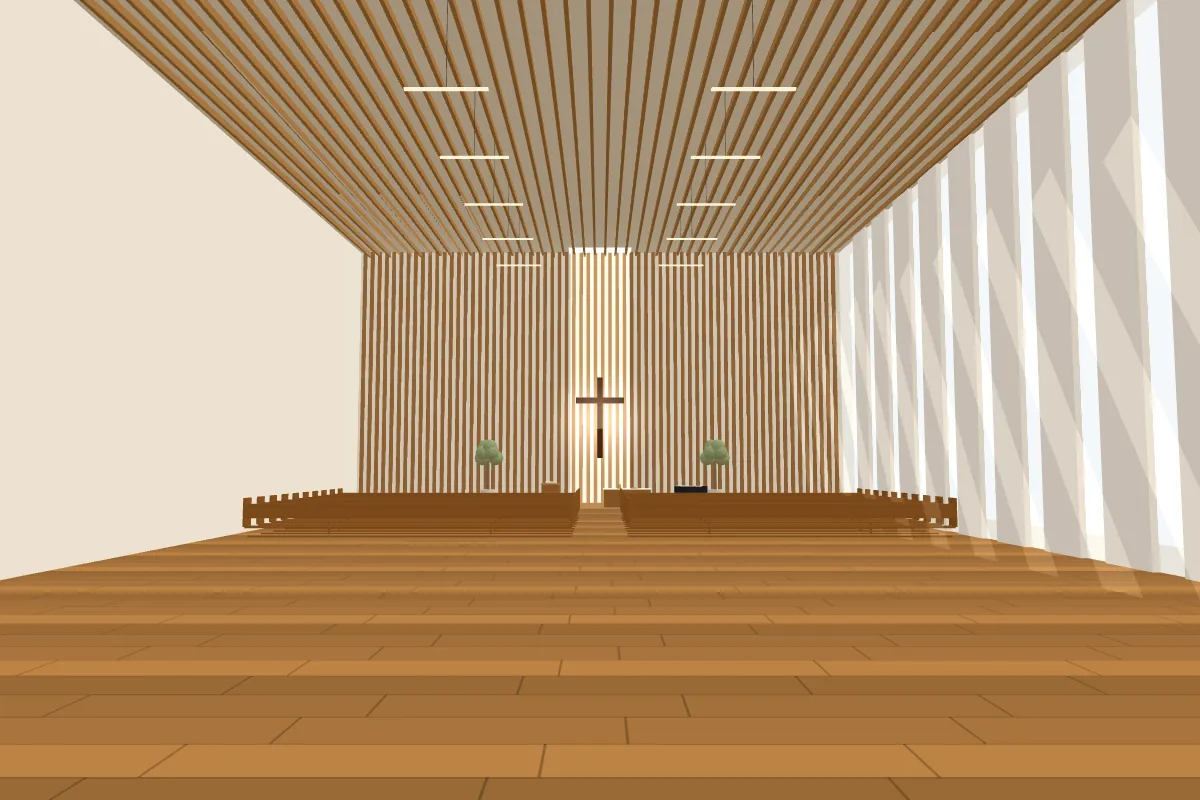
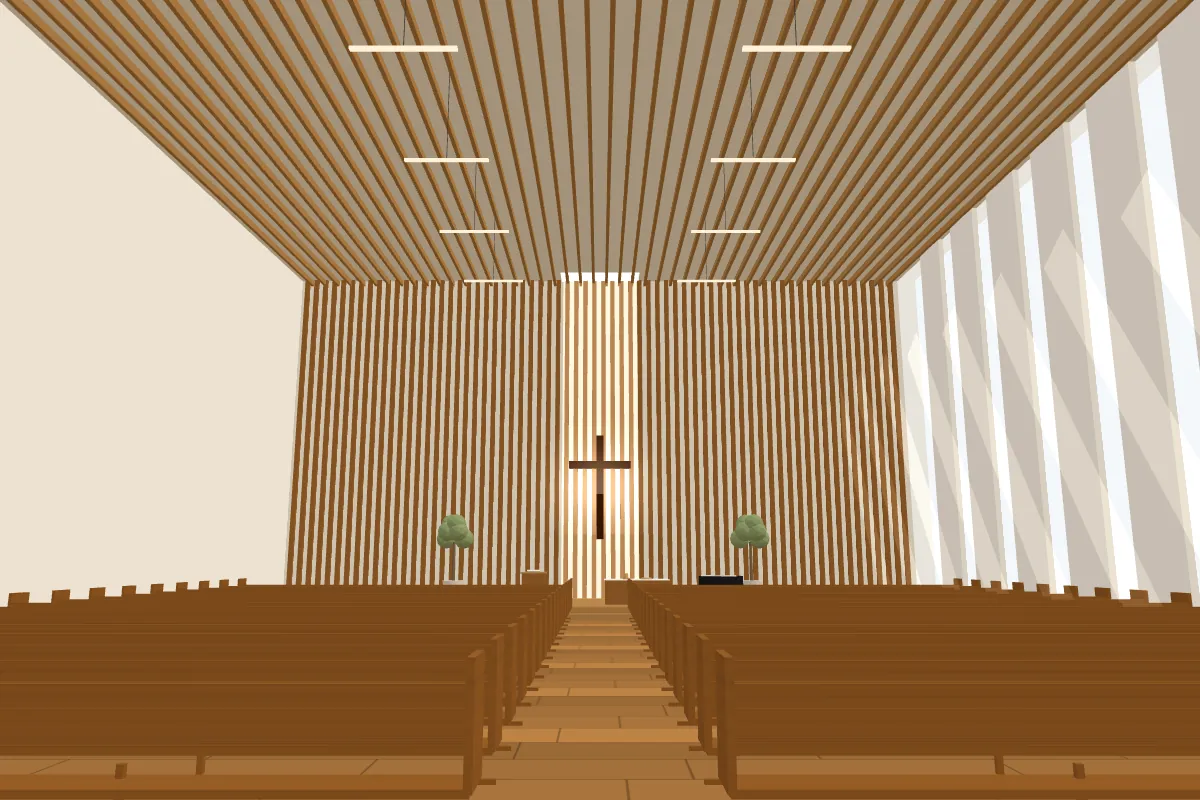
현대 교회 의자 줄을 17줄·간격 1.45m로 늘려 빈 느낌 해소, 힌두 사원 카메라를 낮춰 캐릭터가 화면 아래에 치우치지 않게
Claude-Session: https://claude.ai/code/session_01TJUsTByDCEcfZsEYPpK4HM

diff --git a/src/worlds/christian/three.ts b/src/worlds/christian/three.ts
@@ -230,8 +230,8 @@ export function buildModern(ctx: BuildCtx): Built {
   const people: Parameters<BuildCtx['crowd']>[0] = []
   let pi = 0
   const x0 = 1.0, x1 = W / 2 - 1.6, len = x1 - x0
-  for (let r = 0; r < 10; r++) {
-    const z = pZ + 5 + r * 1.2
+  for (let r = 0; r < 17; r++) {
+    const z = pZ + 5 + r * 1.45
     for (const side of [-1, 1]) {
       const xc = side * (x0 + len / 2)
       const pew = new THREE.Group()
@@ -248,7 +248,7 @@ export function buildModern(ctx: BuildCtx): Built {
       ctx.block({ x0: xc - len / 2 - 0.05, z0: z - 0.3, x1: xc + len / 2 + 0.05, z1: z + 0.3 })
       for (let k = 0; k < 10; k++) {
         const x = side * (x0 + 0.4 + k * ((len - 0.8) / 9))
-        if ((r * 7 + k + (side > 0 ? 3 : 0)) % 4 !== 0 && r < 9) people.push({ x, z: z - 0.03, y: 0.45, yaw: Math.PI, look: visitorLook('christian', pi++) })
+        if ((r * 7 + k + (side > 0 ? 3 : 0)) % 4 !== 0 && r < 16) people.push({ x, z: z - 0.03, y: 0.45, yaw: Math.PI, look: visitorLook('christian', pi++) })
         else ctx.seat(x, z - 0.03, 0.45, Math.PI)
       }
     }

diff --git a/modules/pujatime/src/three/hall.ts b/modules/pujatime/src/three/hall.ts
@@ -566,7 +566,7 @@ export class HallWorld {
     this.camGoal.z = THREE.MathUtils.clamp(this.camGoal.z, Z_BACK + 1.5, Z_FRONT - 1.2)
     this.camera.position.lerp(this.camGoal, k)
     const look = focus.clone().add(new THREE.Vector3(-Math.sin(this.yaw), 0, -Math.cos(this.yaw)).multiplyScalar(2.2))
-    look.y += 5.4 // 믿어보까: 높은 천장이 보이도록 더 위쪽을 봄
+    look.y += 2.4 // 믿어보까: 높은 천장이 보이도록 더 위쪽을 봄
     this.camLook.lerp(look, k)
     this.camera.lookAt(this.camLook)
   }
